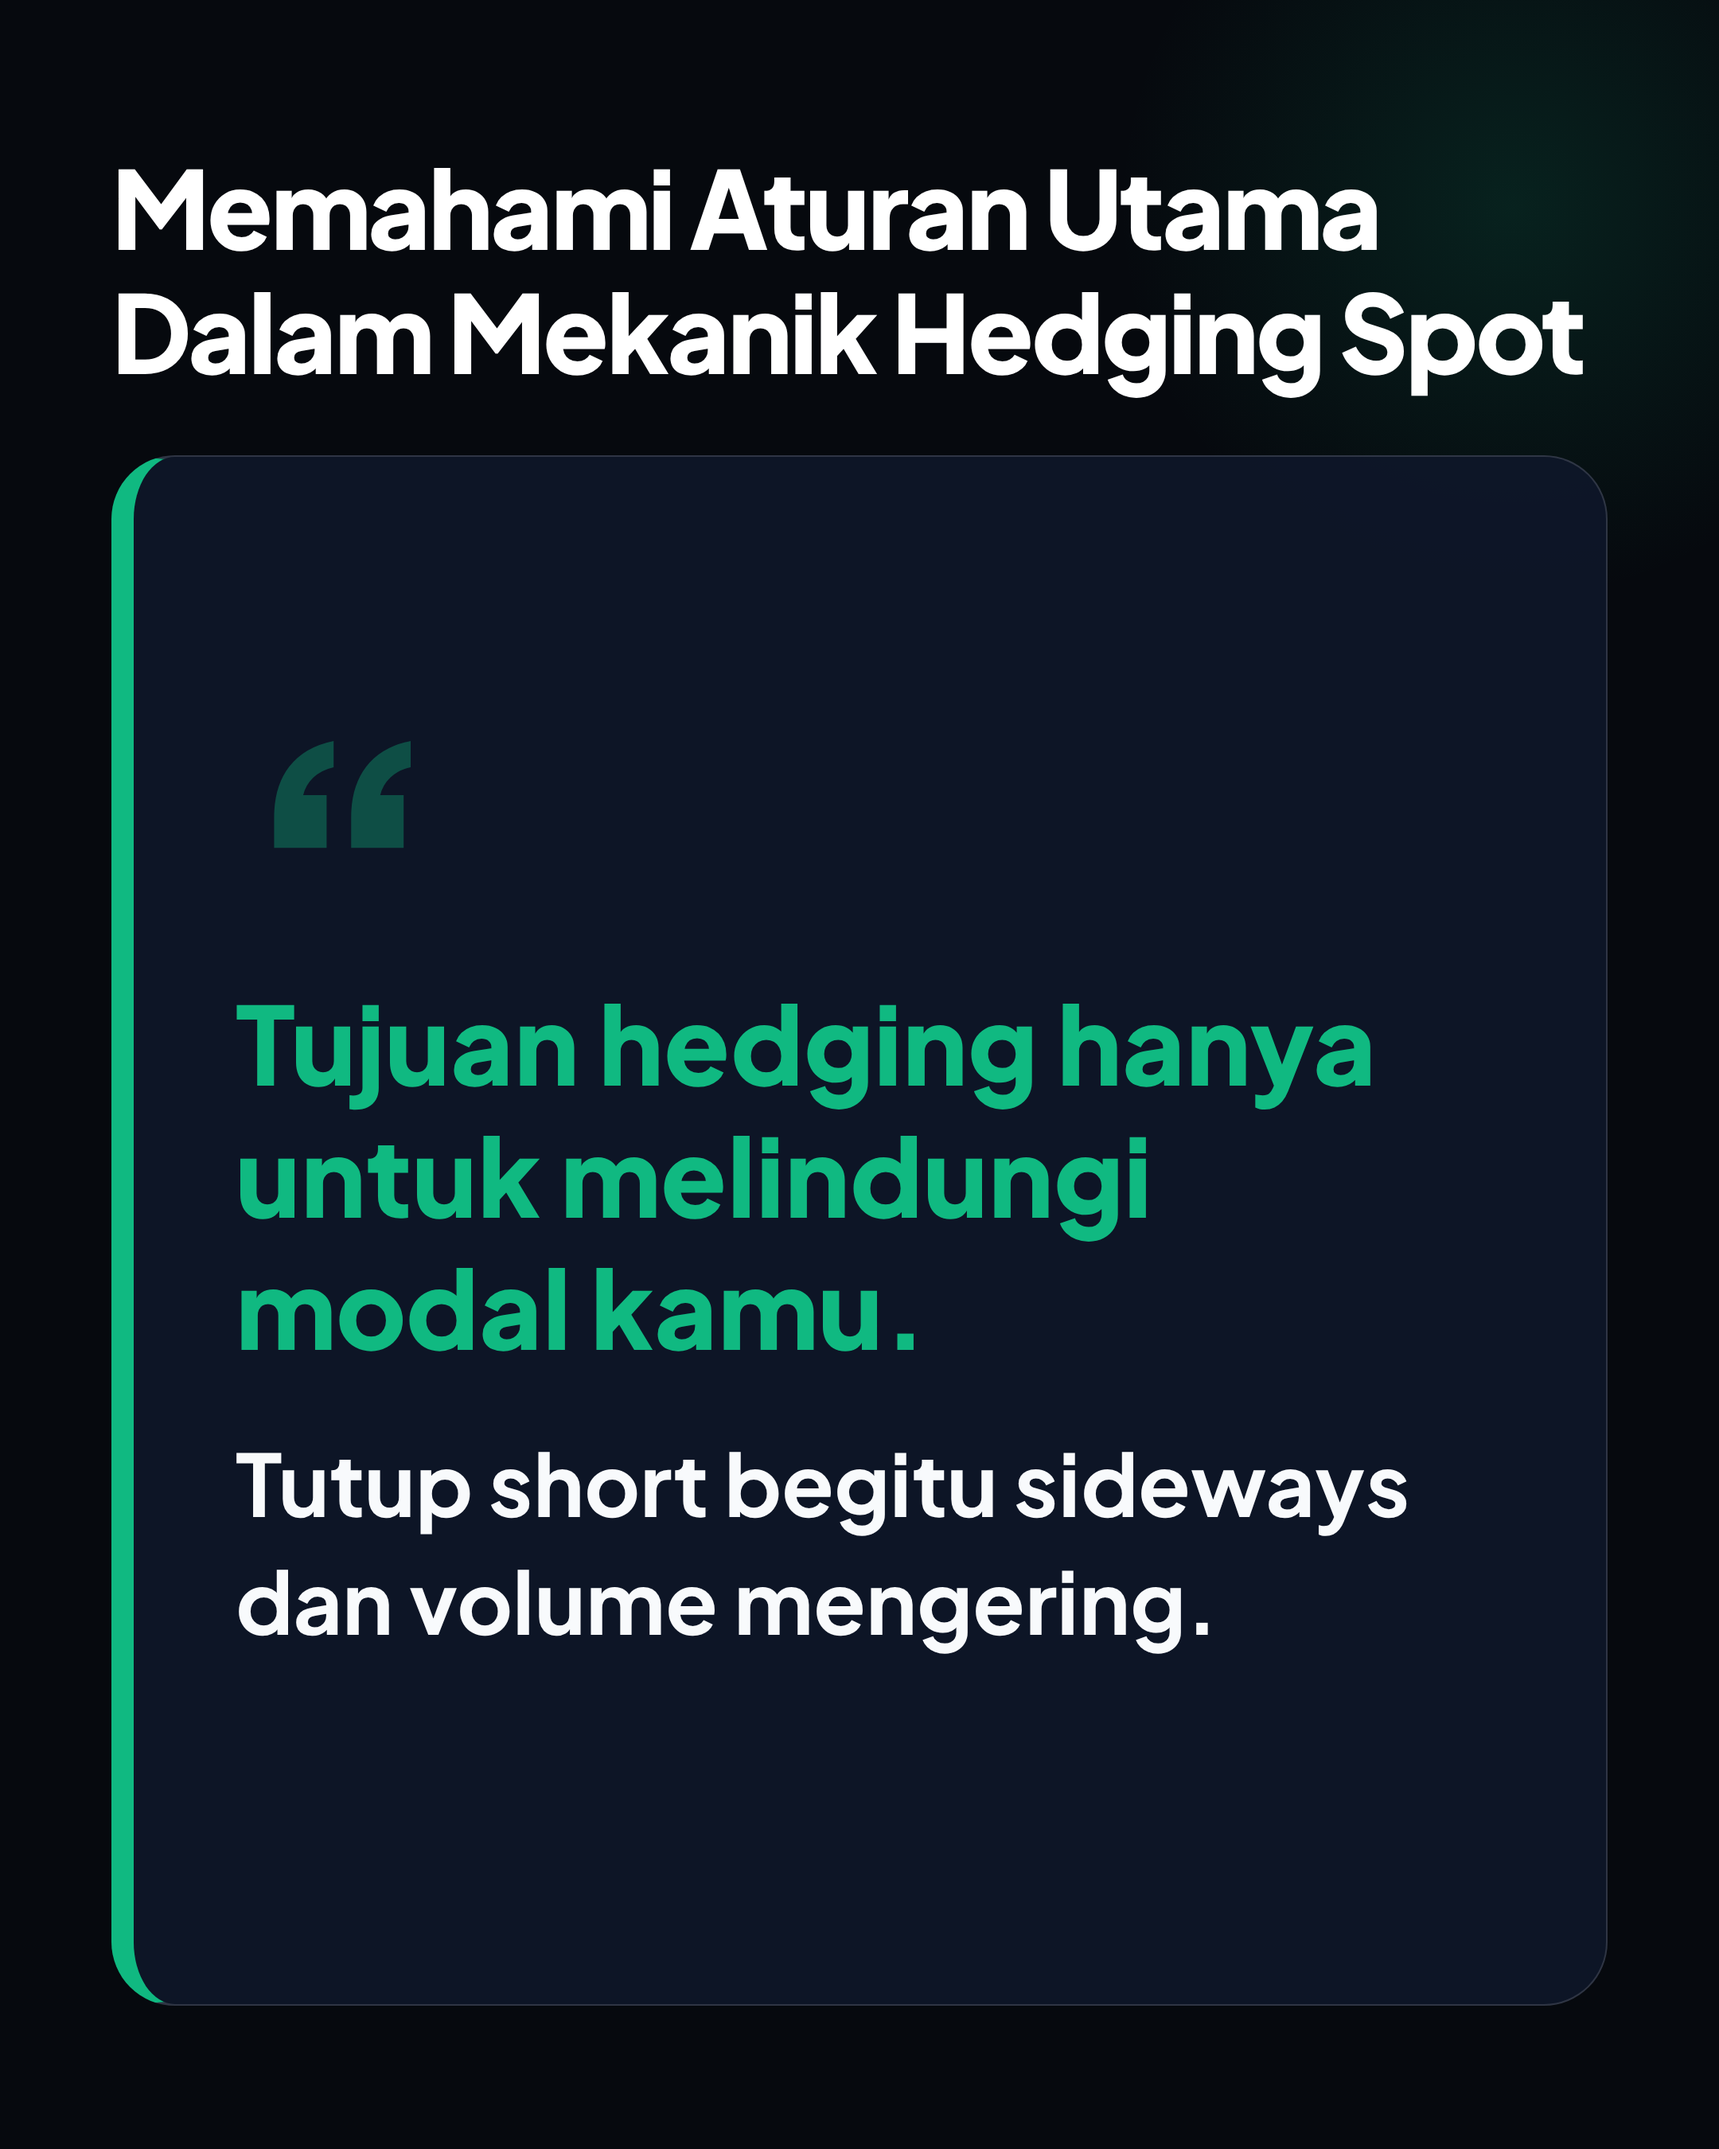
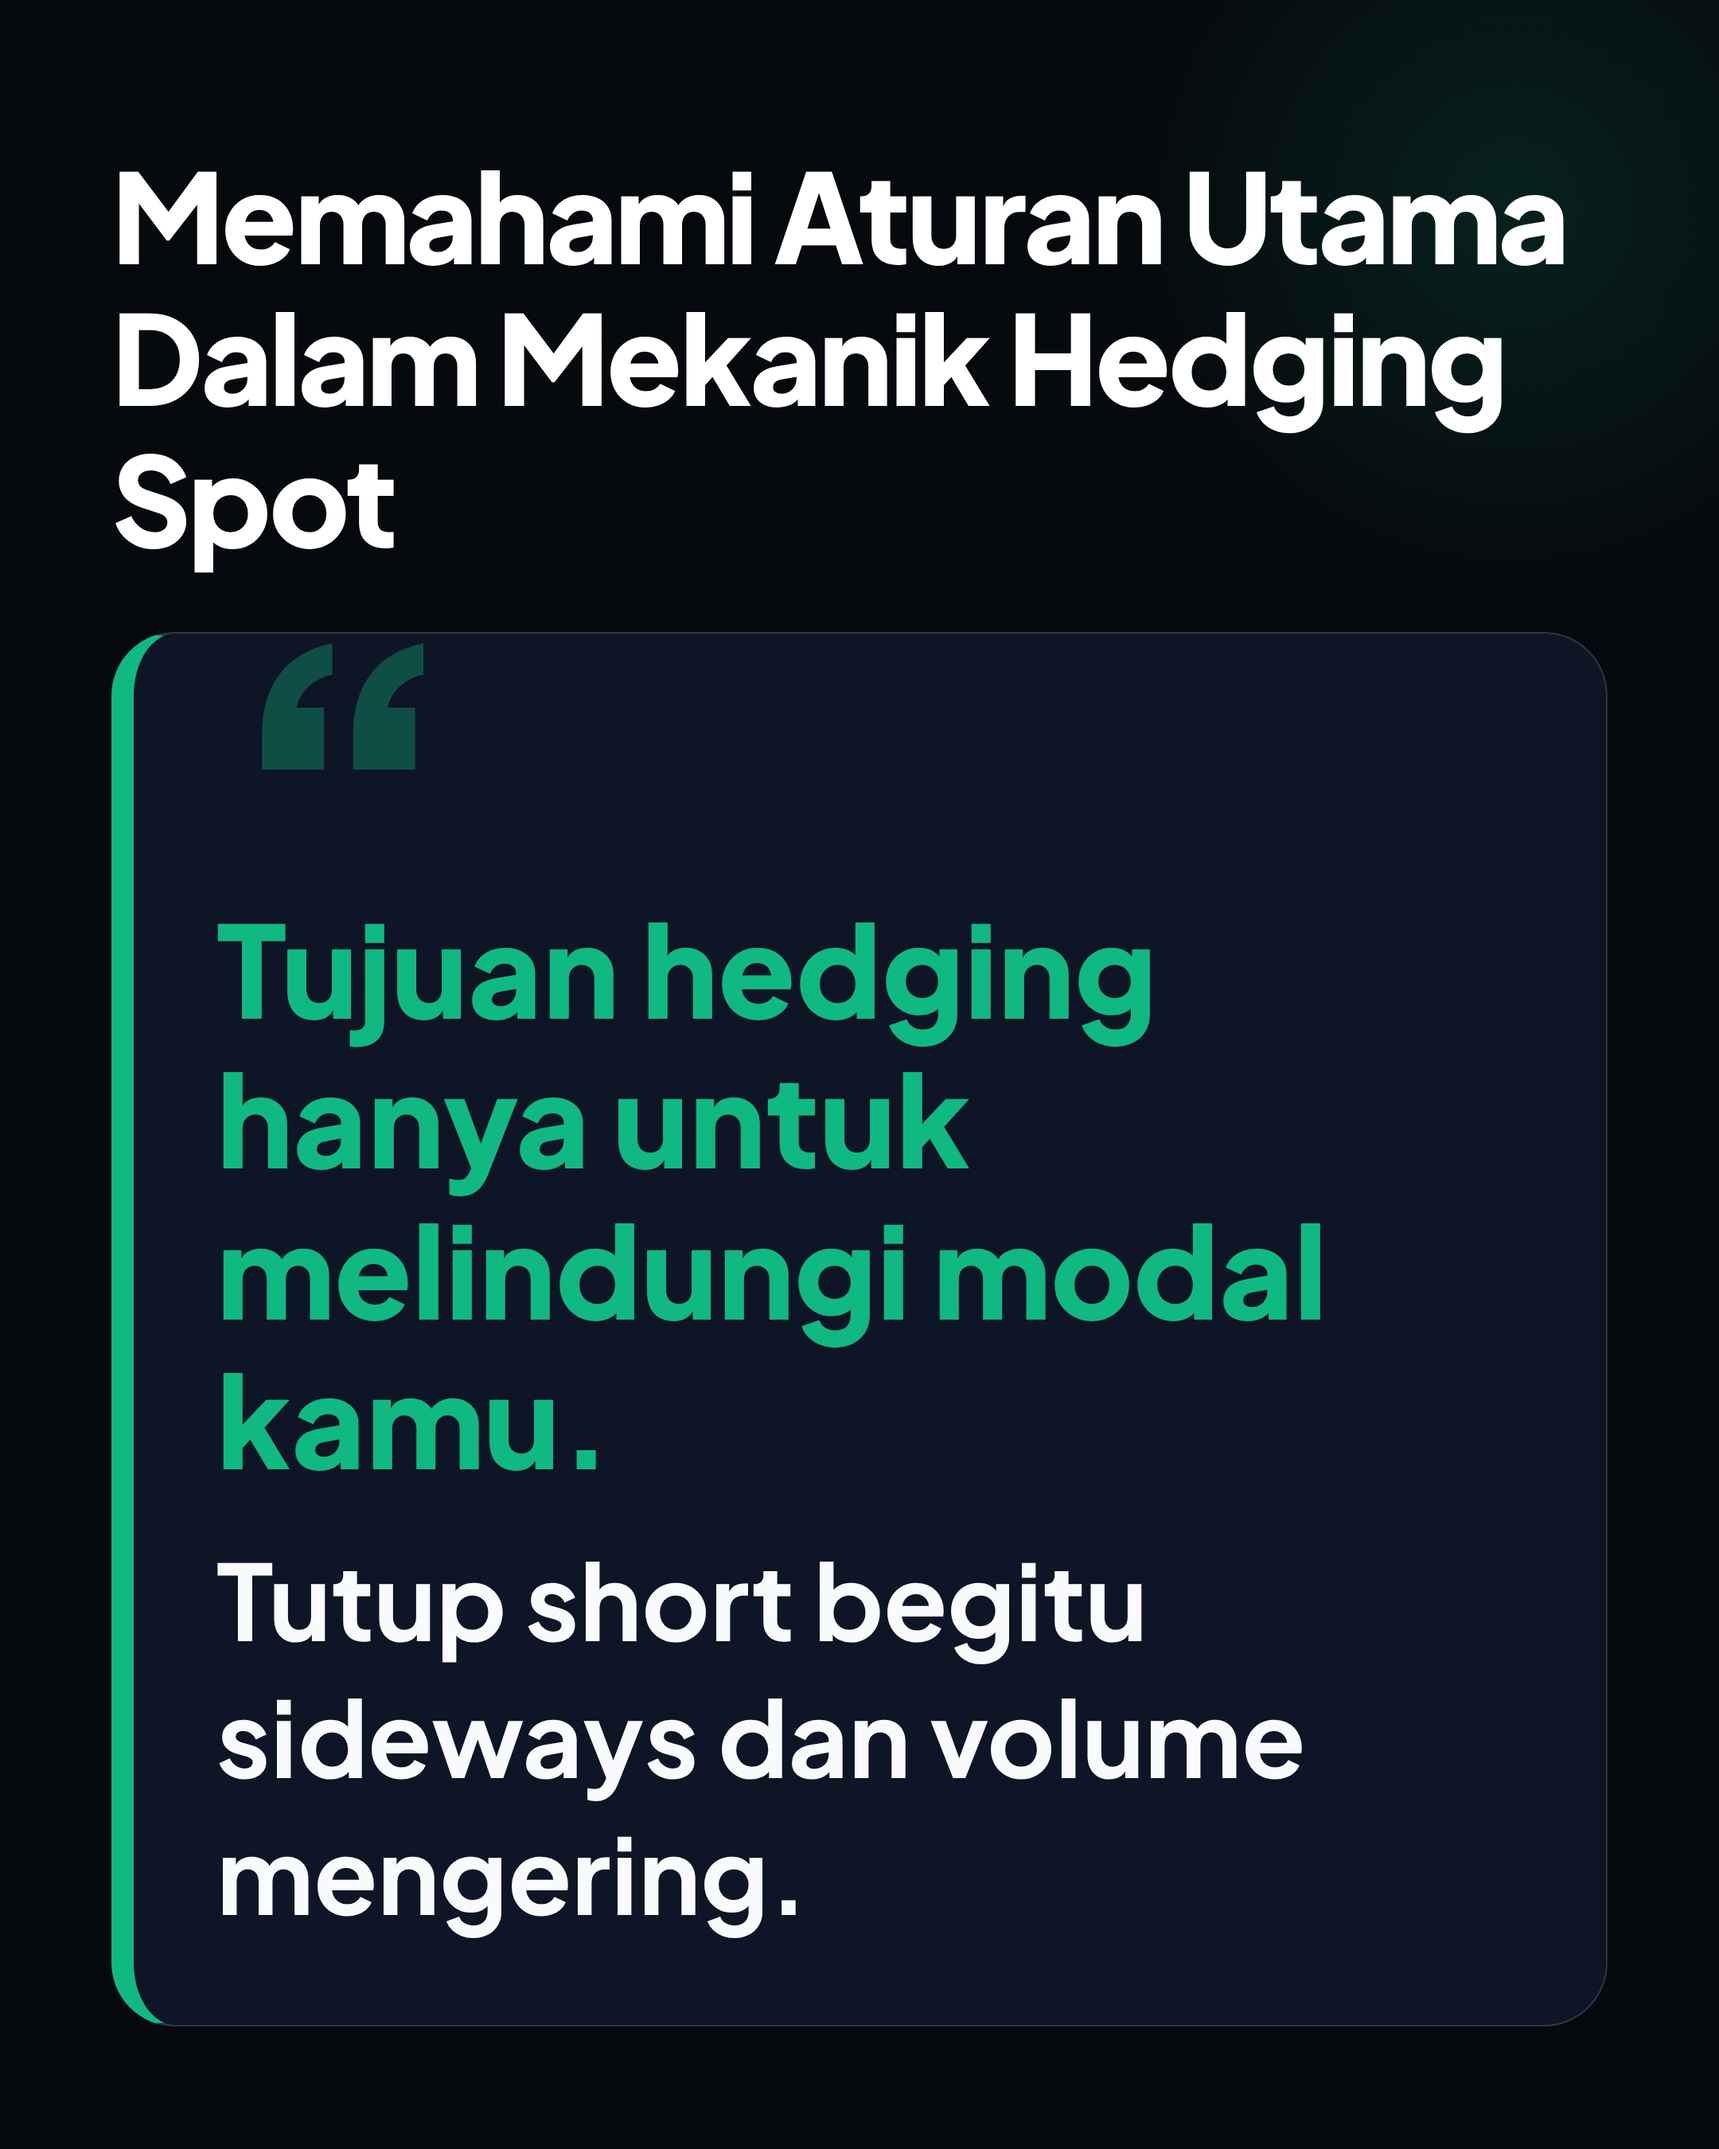
feat(templates): fine-tune Tier 1 templates, Slide 7 Outro CTA, and update architecture docs

Changed region(s): [[0.1241, 0.4044, 0.8375, 0.9022], [0.062, 0.0622, 0.9306, 0.4044], [0.062, 0.9022, 0.0931, 0.9333]]

diff --git a/Configuration/templates/instagram/body_cards/tier1_punchy/Format_3_ArrowFlow_T1.html b/Configuration/templates/instagram/body_cards/tier1_punchy/Format_3_ArrowFlow_T1.html
@@ -42,9 +42,9 @@
       align-items: center;
     }
     .headline {
-      font-size: 58px;
+      font-size: 74px;
       font-weight: 900;
-      line-height: 1.18;
+      line-height: 1.14;
       color: #FFFFFF;
       letter-spacing: -1.5px;
       width: 100%;
@@ -54,7 +54,7 @@
       display: flex;
       flex-direction: column;
       justify-content: center;
-      gap: 24px;
+      gap: 6px;
     }
     .step-card {
       height: auto;
@@ -62,21 +62,21 @@
       background: rgba(15, 23, 42, 0.85);
       border: 1px solid rgba(255, 255, 255, 0.12);
       border-radius: 32px;
-      padding: 52px 56px;
+      padding: 40px 42px;
       display: flex;
       align-items: center;
-      gap: 36px;
+      gap: 28px;
     }
-    .step-number-badge {
-      width: 96px;
-      height: 96px;
+    .step-badge, .step-number-badge {
+      width: 124px;
+      height: 124px;
       background: rgba(16, 185, 129, 0.14);
       border: 3px solid var(--accent-color, #10B981);
       border-radius: 28px;
       display: flex;
       align-items: center;
       justify-content: center;
-      font-size: 42px;
+      font-size: 56px;
       font-weight: 900;
       color: var(--accent-color, #10B981);
       flex-shrink: 0;
@@ -85,27 +85,27 @@
       flex: 1;
       display: flex;
       flex-direction: column;
-      gap: 8px;
+      gap: 4px;
     }
     .step-title {
-      font-size: 36px;
+      font-size: 52px;
       font-weight: 800;
       color: #FFFFFF;
-      line-height: 1.25;
+      line-height: 1.20;
     }
     .step-desc {
-      font-size: 30px;
+      font-size: 44px;
       font-weight: 500;
       color: #CBD5E1;
-      line-height: 1.45;
+      line-height: 1.32;
     }
-    .arrow-divider {
+    .arrow-divider, .flow-arrow {
       align-self: center;
-      font-size: 44px;
+      font-size: 68px;
       font-weight: 900;
       color: var(--accent-color, #10B981);
       line-height: 1;
-      margin: 4px 0;
+      margin: 0;
     }
   </style>
 </head>

diff --git a/Configuration/templates/instagram/body_cards/tier1_punchy/Format_2_KeyValueTable_T1.html b/Configuration/templates/instagram/body_cards/tier1_punchy/Format_2_KeyValueTable_T1.html
@@ -42,9 +42,9 @@
       align-items: center;
     }
     .headline {
-      font-size: 64px;
+      font-size: 70px;
       font-weight: 900;
-      line-height: 1.16;
+      line-height: 1.15;
       color: #FFFFFF;
       letter-spacing: -1.8px;
       width: 100%;
@@ -54,7 +54,7 @@
       display: flex;
       flex-direction: column;
       justify-content: space-evenly;
-      gap: 40px;
+      gap: 24px;
     }
     .card-positive {
       width: 100%;
@@ -63,11 +63,11 @@
       border: 1.5px solid rgba(16, 185, 129, 0.45);
       border-left: 14px solid #10B981;
       border-radius: 36px;
-      padding: 60px 60px;
+      padding: 72px 60px;
       display: flex;
       flex-direction: column;
       justify-content: center;
-      gap: 22px;
+      gap: 26px;
     }
     .card-negative {
       width: 100%;
@@ -76,29 +76,29 @@
       border: 1.5px solid rgba(244, 63, 94, 0.45);
       border-left: 14px solid #F43F5E;
       border-radius: 36px;
-      padding: 60px 60px;
+      padding: 72px 60px;
       display: flex;
       flex-direction: column;
       justify-content: center;
-      gap: 22px;
+      gap: 26px;
     }
     .card-badge-pos {
-      font-size: 28px;
+      font-size: 38px;
       font-weight: 900;
       color: #10B981;
       letter-spacing: 2px;
       text-transform: uppercase;
     }
     .card-badge-neg {
-      font-size: 28px;
+      font-size: 38px;
       font-weight: 900;
       color: #F43F5E;
       letter-spacing: 2px;
       text-transform: uppercase;
     }
     .card-desc {
-      font-size: 40px;
-      line-height: 1.45;
+      font-size: 52px;
+      line-height: 1.35;
       color: #FFFFFF;
       font-weight: 700;
     }

diff --git a/Configuration/templates/instagram/body_cards/tier1_punchy/Format_4_QASplit_T1.html b/Configuration/templates/instagram/body_cards/tier1_punchy/Format_4_QASplit_T1.html
@@ -42,9 +42,9 @@
       align-items: center;
     }
     .headline {
-      font-size: 64px;
+      font-size: 78px;
       font-weight: 900;
-      line-height: 1.16;
+      line-height: 1.14;
       color: #FFFFFF;
       letter-spacing: -1.8px;
       width: 100%;
@@ -54,7 +54,7 @@
       display: flex;
       flex-direction: column;
       justify-content: space-evenly;
-      gap: 48px;
+      gap: 16px;
     }
     .qa-pair-container {
       min-height: 260px;
@@ -62,27 +62,27 @@
       border: 1px solid rgba(255, 255, 255, 0.14);
       border-left: 12px solid #10B981;
       border-radius: 36px;
-      padding: 56px 60px;
+      padding: 40px 42px;
       display: flex;
       flex-direction: column;
       justify-content: center;
-      gap: 24px;
+      gap: 16px;
     }
     .question-text-mini {
-      font-size: 38px;
+      font-size: 60px;
       font-weight: 800;
       color: #FFFFFF;
-      line-height: 1.35;
+      line-height: 1.22;
     }
     .answer-row {
-      padding-top: 24px;
+      padding-top: 16px;
       border-top: 1px solid rgba(255, 255, 255, 0.1);
     }
     .answer-text-mini {
-      font-size: 34px;
+      font-size: 48px;
       font-weight: 500;
       color: #CBD5E1;
-      line-height: 1.5;
+      line-height: 1.32;
     }
   </style>
 </head>

diff --git a/Configuration/templates/instagram/body_cards/tier1_punchy/Format_5_NarrativeBlock_T1.html b/Configuration/templates/instagram/body_cards/tier1_punchy/Format_5_NarrativeBlock_T1.html
@@ -42,9 +42,9 @@
       align-items: center;
     }
     .headline {
-      font-size: 68px;
+      font-size: 78px;
       font-weight: 900;
-      line-height: 1.15;
+      line-height: 1.14;
       color: #FFFFFF;
       letter-spacing: -2px;
       width: 100%;
@@ -55,34 +55,34 @@
       border: 1px solid rgba(255, 255, 255, 0.14);
       border-left: 14px solid #10B981;
       border-radius: 40px;
-      padding: 64px 64px;
+      padding: 52px 52px;
       display: flex;
       flex-direction: column;
       justify-content: center;
     }
     .quote-icon {
-      font-size: 220px;
+      font-size: 260px;
       font-weight: 900;
       color: var(--accent-color, #10B981);
       opacity: 0.35;
       line-height: 0.35;
-      margin-bottom: 32px;
+      margin-bottom: 20px;
     }
     .narrative-box {
       display: flex;
       flex-direction: column;
-      gap: 32px;
+      gap: 24px;
     }
     .narrative-lead {
-      font-size: 68px;
+      font-size: 80px;
       font-weight: 800;
-      line-height: 1.22;
+      line-height: 1.18;
       color: #10B981;
     }
     .narrative-body {
-      font-size: 54px;
+      font-size: 66px;
       font-weight: 600;
-      line-height: 1.38;
+      line-height: 1.30;
       color: #F8FAFC;
     }
   </style>

diff --git a/Configuration/templates/instagram/body_cards/tier1_punchy/Format_1_BulletSOP_T1.html b/Configuration/templates/instagram/body_cards/tier1_punchy/Format_1_BulletSOP_T1.html
@@ -42,9 +42,9 @@
       align-items: center;
     }
     .headline {
-      font-size: 58px;
+      font-size: 72px;
       font-weight: 900;
-      line-height: 1.18;
+      line-height: 1.16;
       color: #FFFFFF;
       letter-spacing: -1.5px;
       width: 100%;
@@ -54,32 +54,32 @@
       display: flex;
       flex-direction: column;
       justify-content: space-evenly;
-      gap: 48px;
+      gap: 20px;
     }
     .bullet-item {
       background: rgba(15, 23, 42, 0.85);
       border: 1px solid rgba(255, 255, 255, 0.12);
       border-left: 10px solid var(--accent-color, #10B981);
       border-radius: 32px;
-      padding: 56px 60px;
+      padding: 46px 48px;
       display: flex;
       align-items: center;
-      gap: 28px;
+      gap: 30px;
     }
     .bullet-icon {
-      font-size: 48px;
+      font-size: 74px;
       color: var(--accent-color, #10B981);
       font-weight: 900;
       line-height: 1;
     }
     .bullet-text {
-      font-size: 34px;
+      font-size: 48px;
       font-weight: 600;
       color: #F8FAFC;
-      line-height: 1.45;
+      line-height: 1.32;
     }
     .bullet-lead {
-      font-size: 38px;
+      font-size: 58px;
       font-weight: 800;
       color: #FFFFFF;
     }

diff --git a/Configuration/templates/instagram/outro/Outro_Card_CTA.html b/Configuration/templates/instagram/outro/Outro_Card_CTA.html
@@ -45,20 +45,20 @@
     }
 
     .cta-headline {
-      font-size: 68px;
+      font-size: 84px;
       font-weight: 900;
-      line-height: 1.2;
+      line-height: 1.15;
       color: #FFFFFF;
       letter-spacing: -2px;
       text-shadow: 0 4px 32px rgba(0,0,0,0.6);
     }
 
     .cta-subtext {
-      font-size: 36px;
+      font-size: 52px;
       color: #10B981;
-      line-height: 1.5;
-      margin-top: 36px;
-      font-weight: 700;
+      line-height: 1.35;
+      margin-top: 28px;
+      font-weight: 800;
       letter-spacing: -0.5px;
     }
   </style>

diff --git a/Configuration/instagram_carousel_rendering_stack.md b/Configuration/instagram_carousel_rendering_stack.md
@@ -16,16 +16,17 @@ The rendering stack processes copy across 3 distinct density tiers (Tier 1: Mini
 
 ## 📐 2. Tier Density Specifications
 
-### Tier 1: Ultra-Minimalist Density (15–50 chars per item)
+### Tier 1: Punchy Micro-Copy Density (20–50 chars per item)
 * **Goal**: Maximized visual punchiness, ultra-large text, and heavy whitespace.
-* **Target Character Range**: `15–50 chars` / `3–8 words` per point or block.
-* **Template Path**: `Configuration/templates/instagram/body_cards/tier1_minimalist/`
-* **Calibrated Proportions**:
-  * **Bullet SOP (`Format_1_BulletSOP.html`)**: Headline `54px`, Bullet lead `42px`, Body `32px`, Bullet dot `46px`, Padding `56px 52px`.
-  * **Key-Value Table (`Format_2_KeyValueTable.html`)**: Headline `54px`, Badge `32px`, Description `40px`, Card padding `76px 60px`.
-  * **Arrow Flow (`Format_3_ArrowFlow.html`)**: Headline `56px`, Step Title `40px`, Step Desc `32px`, Number badge `96px × 96px` (`46px` font), Arrow divider `56px`.
-  * **Q&A Split (`Format_4_QASplit.html`)**: Headline `58px`, Question `42px`, Answer `36px`, Card padding `62px 56px`.
-  * **Narrative Block (`Format_5_NarrativeBlock.html`)**: Headline `64px`, Quote lead `52px`, Body text `40px`, Quote icon `180px`, Card padding `40px 48px`.
+* **Target Character Range**: `20–50 chars` / `4–10 words` per point or block.
+* **Template Path**: `Configuration/templates/instagram/body_cards/tier1_punchy/`
+* **Calibrated Proportions & Approved Specs**:
+  * **Bullet SOP (`Format_1_BulletSOP_T1.html`)**: Headline `72px`, Bullet lead `58px`, Body `48px`, Bullet icon `74px`, Card padding `46px 48px`, Gap `20px`.
+  * **Key-Value Table (`Format_2_KeyValueTable_T1.html`)**: Headline `70px`, Badge `38px`, Description `52px`, Card padding `72px 60px`, Grid gap `24px`.
+  * **Arrow Flow (`Format_3_ArrowFlow_T1.html`)**: Headline `74px`, Step Badge `124px × 124px` (`56px` font), Step Title `52px`, Step Desc `44px`, Arrow divider `68px`, Card padding `40px 42px`, Stack gap `6px`.
+  * **Q&A Split (`Format_4_QASplit_T1.html`)**: Headline `78px`, Question `60px`, Answer `48px`, Card padding `40px 42px`, Stack gap `16px`.
+  * **Narrative Block (`Format_5_NarrativeBlock_T1.html`)**: Headline `78px`, Quote lead `80px`, Body text `66px`, Quote icon `260px`, Card padding `52px 52px`, Gap `24px`.
+  * **Outro CTA Card (`Outro_Card_CTA.html`)**: Headline `"Kamu Suka?"` (`84px` white `#FFFFFF`), Subtext `"Follow. Like. Comment"` (`52px` emerald green `#10B981`).
 
 ---
 
